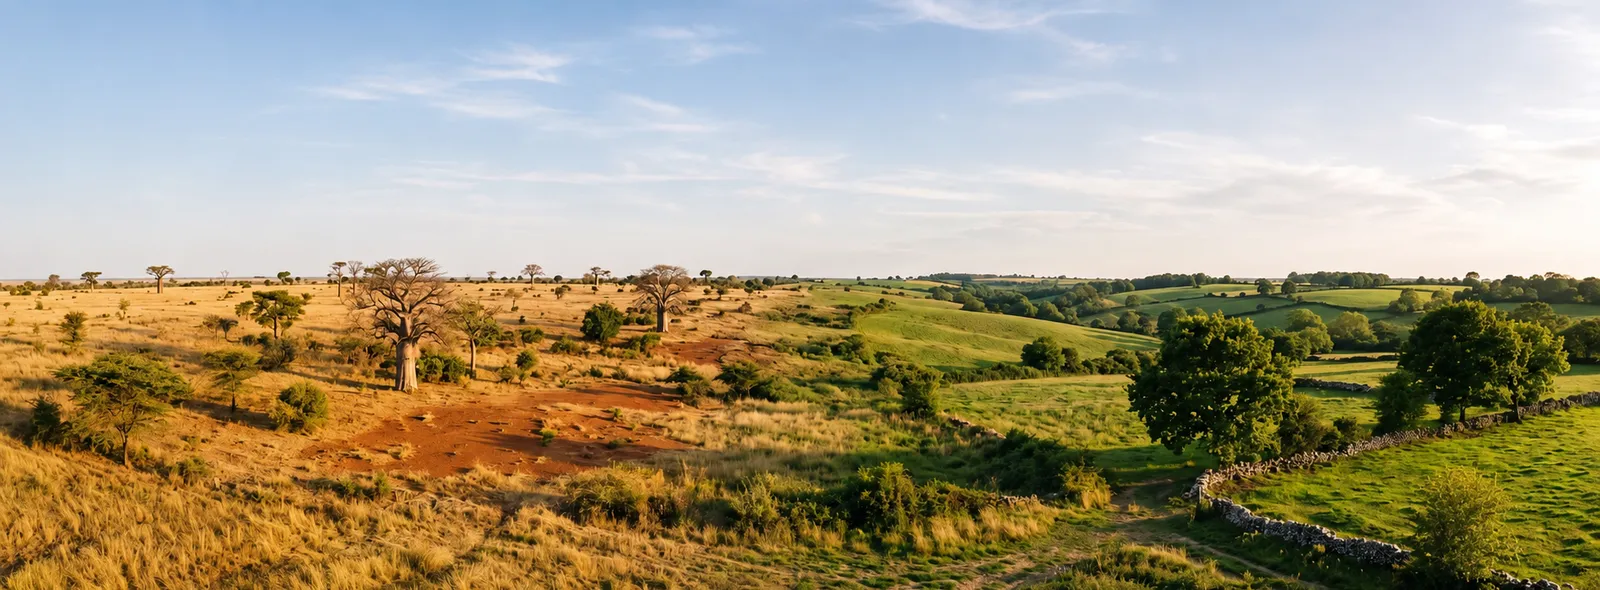
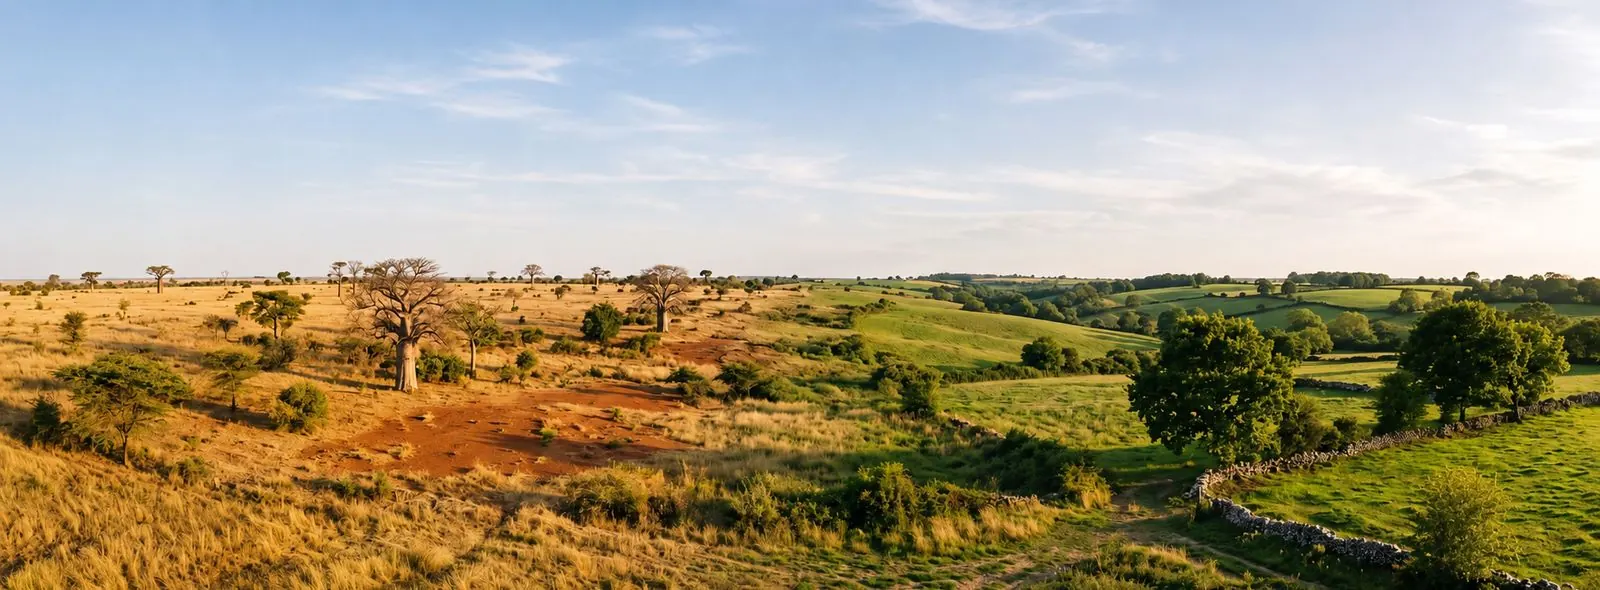
perf: cache CDN Vercel, photos en WebP, code serveur non public
- Cache : pages et fichiers statiques sont gardés par le CDN Vercel jusqu'au
  prochain déploiement (s-maxage, purge automatique au déploiement) ; le
  navigateur revalide les pages à chaque visite, le CSS/JS toutes les heures,
  les images chaque semaine. Les visites ne déclenchent presque plus la
  fonction serveur (coût Vercel divisé par ~10). Inactif en développement.
- Photos affichées en WebP (800 px) : -45 % à -80 % de poids
  (ex. hibiscus blanc 130 → 38 Ko, recettes 47-96 → 10-31 Ko). Les JPG
  restent pour les aperçus de partage (og:image, données structurées).
- Sécurité : express.static ne sert plus toute la racine du projet mais
  seulement /public et /components ; /server/server.js était téléchargeable.

diff --git a/server/server.js b/server/server.js
@@ -189,6 +189,28 @@ app.use('/create-checkout-session', apiLimiter);
 // --- FICHIERS STATIQUES (frontend) ---
 const frontendPath = path.join(__dirname, '..');
 
+// Cache : le CDN Vercel garde pages et fichiers jusqu'au prochain déploiement (qui purge
+// son cache), sans rappeler la fonction à chaque visite. Le navigateur, lui, revérifie
+// régulièrement car les noms de fichiers ne sont pas versionnés. Désactivé en développement.
+const IS_PROD = process.env.NODE_ENV === 'production';
+const CDN_ONE_YEAR = 's-maxage=31536000, stale-while-revalidate=86400';
+const CACHE = {
+  page:  `public, max-age=0, ${CDN_ONE_YEAR}`,
+  asset: `public, max-age=3600, ${CDN_ONE_YEAR}`,
+  image: `public, max-age=604800, ${CDN_ONE_YEAR}`,
+};
+const cacheFor = (filePath) =>
+  /\.html$/i.test(filePath) ? CACHE.page
+  : /\.(jpe?g|png|webp|avif|svg|ico)$/i.test(filePath) ? CACHE.image
+  : CACHE.asset;
+const sendCached = (res, filePath) => {
+  if (IS_PROD) res.setHeader('Cache-Control', cacheFor(filePath));
+  res.sendFile(filePath);
+};
+const staticOptions = IS_PROD
+  ? { cacheControl: false, setHeaders: (res, filePath) => res.setHeader('Cache-Control', cacheFor(filePath)) }
+  : {};
+
 // --- ROUTES HTML (URLs propres → /pages/) ---
 // Déclarées AVANT express.static pour prendre priorité sur les originaux à la racine
 [
@@ -209,7 +231,7 @@ const frontendPath = path.join(__dirname, '..');
   'contact',
 ].forEach(p => {
   app.get(`/${p}.html`, (req, res) => {
-    res.sendFile(path.join(frontendPath, 'pages', `${p}.html`));
+    sendCached(res, path.join(frontendPath, 'pages', `${p}.html`));
   });
 });
 
@@ -227,20 +249,21 @@ app.get('/pages/produits.html', (req, res) => {
   res.redirect(301, '/khamare.html');
 });
 app.get('/déconnexion.html', (req, res) => {
-  res.sendFile(path.join(frontendPath, 'pages', 'déconnexion.html'));
+  sendCached(res, path.join(frontendPath, 'pages', 'déconnexion.html'));
 });
 
 // SEO technical files served from root URLs
-app.get('/robots.txt', (req, res) => res.sendFile(path.join(frontendPath, 'public', 'robots.txt')));
-app.get('/sitemap.xml', (req, res) => res.sendFile(path.join(frontendPath, 'public', 'sitemap.xml')));
-app.get('/manifest.json', (req, res) => res.sendFile(path.join(frontendPath, 'public', 'manifest.json')));
-app.get('/favicon.png', (req, res) => res.sendFile(path.join(frontendPath, 'public', 'favicon.png')));
-app.get('/favicon.ico', (req, res) => res.sendFile(path.join(frontendPath, 'public', 'favicon.png')));
+app.get('/robots.txt', (req, res) => sendCached(res, path.join(frontendPath, 'public', 'robots.txt')));
+app.get('/sitemap.xml', (req, res) => sendCached(res, path.join(frontendPath, 'public', 'sitemap.xml')));
+app.get('/manifest.json', (req, res) => sendCached(res, path.join(frontendPath, 'public', 'manifest.json')));
+app.get('/favicon.png', (req, res) => sendCached(res, path.join(frontendPath, 'public', 'favicon.png')));
+app.get('/favicon.ico', (req, res) => sendCached(res, path.join(frontendPath, 'public', 'favicon.png')));
 
 // Dynamic config.js — injects real env vars (overrides static file)
+// Les variables ne changent qu'avec un redéploiement, qui purge le cache CDN.
 app.get('/public/js/config.js', (req, res) => {
   res.setHeader('Content-Type', 'application/javascript');
-  res.setHeader('Cache-Control', 'no-store');
+  res.setHeader('Cache-Control', IS_PROD ? CACHE.page : 'no-store');
   res.send(`window.__ENV__ = ${JSON.stringify({
     SUPABASE_URL: process.env.SUPABASE_URL || '',
     SUPABASE_ANON_KEY: process.env.SUPABASE_ANON_KEY || '',
@@ -248,10 +271,12 @@ app.get('/public/js/config.js', (req, res) => {
   })};`);
 });
 
-app.use(express.static(frontendPath));
+// Seuls les dossiers utilisés par le site sont publics (le code serveur ne doit pas l'être)
+app.use('/public', express.static(path.join(frontendPath, 'public'), staticOptions));
+app.use('/components', express.static(path.join(frontendPath, 'components'), staticOptions));
 // Route racine → pages/index.html
 app.get('/', (req, res) => {
-  res.sendFile(path.join(frontendPath, 'pages', 'index.html'));
+  sendCached(res, path.join(frontendPath, 'pages', 'index.html'));
 });
 
 // --- LOGIQUE MÉTIER ---

diff --git a/pages/conseil.html b/pages/conseil.html
@@ -227,7 +227,7 @@
         <!-- Khamaré -->
         <article class="bg-white dark:bg-background-dark/40 rounded-xl shadow-md overflow-hidden md:flex">
           <img
-            src="/public/images/khamare.jpg"
+            src="/public/images/khamare.webp"
             alt="Bottes de racines de khamaré (vétiver) séchées et liées"
             class="w-full md:w-2/5 h-56 md:h-auto object-cover"
             loading="lazy" width="800" height="800" />
@@ -254,7 +254,7 @@
         <!-- Hibiscus -->
         <article class="bg-white dark:bg-background-dark/40 rounded-xl shadow-md overflow-hidden md:flex md:flex-row-reverse">
           <img
-            src="/public/images/hibiscus-rouge.jpg"
+            src="/public/images/hibiscus-rouge.webp"
             alt="Fleurs d'hibiscus rouge séchées, utilisées pour le bissap"
             class="w-full md:w-2/5 h-56 md:h-auto object-cover"
             loading="lazy" width="800" height="800" />
@@ -294,7 +294,7 @@
 
           <!-- Bissap glacé -->
           <article class="bg-white dark:bg-background-dark/40 rounded-xl shadow-md overflow-hidden flex flex-col">
-            <img src="/public/images/recette-bissap-glace.jpg" alt="Verre et carafe de bissap glacé avec des glaçons et de la menthe"
+            <img src="/public/images/recette-bissap-glace.webp" alt="Verre et carafe de bissap glacé avec des glaçons et de la menthe"
                  class="w-full h-48 object-cover" loading="lazy" width="800" height="800" />
             <div class="p-6 space-y-3 flex flex-col flex-1">
               <div>
@@ -321,7 +321,7 @@
 
           <!-- Bissap gingembre -->
           <article class="bg-white dark:bg-background-dark/40 rounded-xl shadow-md overflow-hidden flex flex-col">
-            <img src="/public/images/recette-bissap-gingembre.jpg" alt="Verre de bissap au gingembre, racine de gingembre tranchée et fleurs d'hibiscus séchées"
+            <img src="/public/images/recette-bissap-gingembre.webp" alt="Verre de bissap au gingembre, racine de gingembre tranchée et fleurs d'hibiscus séchées"
                  class="w-full h-48 object-cover" loading="lazy" width="800" height="800" />
             <div class="p-6 space-y-3 flex flex-col flex-1">
               <div>
@@ -347,7 +347,7 @@
 
           <!-- Granité -->
           <article class="bg-white dark:bg-background-dark/40 rounded-xl shadow-md overflow-hidden flex flex-col">
-            <img src="/public/images/recette-granite-bissap.jpg" alt="Verre de granité de bissap rose vif avec une petite cuillère et une feuille de menthe"
+            <img src="/public/images/recette-granite-bissap.webp" alt="Verre de granité de bissap rose vif avec une petite cuillère et une feuille de menthe"
                  class="w-full h-48 object-cover" loading="lazy" width="800" height="800" />
             <div class="p-6 space-y-3 flex flex-col flex-1">
               <div>
@@ -374,7 +374,7 @@
 
           <!-- Eau de khamaré -->
           <article class="bg-white dark:bg-background-dark/40 rounded-xl shadow-md overflow-hidden flex flex-col">
-            <img src="/public/images/khamare.jpg" alt="Racines de khamaré séchées, prêtes à infuser dans l'eau froide"
+            <img src="/public/images/khamare.webp" alt="Racines de khamaré séchées, prêtes à infuser dans l'eau froide"
                  class="w-full h-48 object-cover" loading="lazy" width="800" height="800" />
             <div class="p-6 space-y-3 flex flex-col flex-1">
               <div>
@@ -400,7 +400,7 @@
 
           <!-- Infusion hibiscus blanc -->
           <article class="bg-white dark:bg-background-dark/40 rounded-xl shadow-md overflow-hidden flex flex-col md:col-span-2 md:flex-row">
-            <img src="/public/images/hibiscus-blanc.jpg" alt="Fleurs d'hibiscus blanc séchées pour une infusion chaude"
+            <img src="/public/images/hibiscus-blanc.webp" alt="Fleurs d'hibiscus blanc séchées pour une infusion chaude"
                  class="w-full md:w-1/3 h-48 md:h-auto object-cover" loading="lazy" width="800" height="800" />
             <div class="p-6 space-y-3 flex flex-col flex-1">
               <div>

diff --git a/pages/boutique.html b/pages/boutique.html
@@ -56,7 +56,7 @@
             <a href="/khamare.html"
                 class="product-card group bg-white dark:bg-gray-800 rounded-2xl shadow-sm hover:shadow-xl transition duration-300 overflow-hidden border border-gray-100 dark:border-gray-700 flex flex-col">
                 <div class="aspect-square bg-gray-100 overflow-hidden">
-                    <img src="/public/images/khamare.jpg"
+                    <img src="/public/images/khamare.webp"
                         alt="Khamaré – Racine de Vétiver"
                         class="w-full h-full object-cover group-hover:scale-105 transition duration-500">
                 </div>
@@ -73,7 +73,7 @@
             <a href="/hibiscus-blanc.html"
                 class="product-card group bg-white dark:bg-gray-800 rounded-2xl shadow-sm hover:shadow-xl transition duration-300 overflow-hidden border border-gray-100 dark:border-gray-700 flex flex-col">
                 <div class="aspect-square bg-gray-100 overflow-hidden">
-                    <img src="/public/images/hibiscus-blanc.jpg"
+                    <img src="/public/images/hibiscus-blanc.webp"
                         alt="Fleurs d'Hibiscus Blanc"
                         class="w-full h-full object-cover group-hover:scale-105 transition duration-500">
                 </div>
@@ -90,7 +90,7 @@
             <a href="/hibiscus-rouge.html"
                 class="product-card group bg-white dark:bg-gray-800 rounded-2xl shadow-sm hover:shadow-xl transition duration-300 overflow-hidden border border-gray-100 dark:border-gray-700 flex flex-col">
                 <div class="aspect-square bg-gray-100 overflow-hidden">
-                    <img src="/public/images/hibiscus-rouge.jpg"
+                    <img src="/public/images/hibiscus-rouge.webp"
                         alt="Hibiscus Rouge"
                         class="w-full h-full object-cover group-hover:scale-105 transition duration-500">
                 </div>

diff --git a/pages/assistantIA.html b/pages/assistantIA.html
@@ -72,7 +72,7 @@
       <div
         class="product-card bg-white dark:bg-gray-800 rounded-2xl shadow-sm overflow-hidden border border-gray-100 dark:border-gray-700 flex flex-col sm:flex-row">
         <div class="sm:w-1/3 aspect-square bg-gray-100 overflow-hidden">
-          <img src="/public/images/hibiscus-blanc.jpg" alt="Fleurs d'Hibiscus Blanc"
+          <img src="/public/images/hibiscus-blanc.webp" alt="Fleurs d'Hibiscus Blanc"
             class="w-full h-full object-cover">
         </div>
         <div class="p-6 flex flex-col flex-grow text-center sm:text-left">
@@ -94,7 +94,7 @@
       <div
         class="product-card bg-white dark:bg-gray-800 rounded-2xl shadow-sm overflow-hidden border border-gray-100 dark:border-gray-700 flex flex-col sm:flex-row">
         <div class="sm:w-1/3 aspect-square bg-gray-100 overflow-hidden">
-          <img src="/public/images/hibiscus-rouge.jpg" alt="Fleurs d'Hibiscus Rouge"
+          <img src="/public/images/hibiscus-rouge.webp" alt="Fleurs d'Hibiscus Rouge"
             class="w-full h-full object-cover">
         </div>
         <div class="p-6 flex flex-col flex-grow text-center sm:text-left">
@@ -116,7 +116,7 @@
       <div
         class="product-card bg-white dark:bg-gray-800 rounded-2xl shadow-sm overflow-hidden border border-gray-100 dark:border-gray-700 flex flex-col sm:flex-row">
         <div class="sm:w-1/3 aspect-square bg-gray-100 overflow-hidden">
-          <img src="/public/images/khamare.jpg" alt="Khamaré (racine de vétiver)" class="w-full h-full object-cover">
+          <img src="/public/images/khamare.webp" alt="Khamaré (racine de vétiver)" class="w-full h-full object-cover">
         </div>
         <div class="p-6 flex flex-col flex-grow text-center sm:text-left">
           <h3 class="text-xl font-bold mb-1">Khamaré (racine de vétiver)</h3>

diff --git a/pages/hibiscus-rouge.html b/pages/hibiscus-rouge.html
@@ -81,7 +81,7 @@
     <!-- IMAGE PRODUIT -->
     <section class="flex justify-center mb-6">
       <img id="productImage"
-        src="/public/images/hibiscus-rouge.jpg"
+        src="/public/images/hibiscus-rouge.webp"
         alt="Fleurs d'hibiscus rouge sur la plante"
         class="rounded-xl w-full max-w-lg object-cover shadow-md"
         loading="eager"
@@ -169,7 +169,7 @@
         data-product-id="hibiscus-rouge"
         data-name="Fleurs d'Hibiscus Rouge"
         data-price="6.00"
-        data-image="/public/images/hibiscus-rouge.jpg"
+        data-image="/public/images/hibiscus-rouge.webp"
         class="flex items-center justify-center w-full h-14 rounded-full bg-primary text-white text-lg font-bold shadow-lg hover:bg-primary/90 transition"
         data-testid="add-to-cart">
         Ajouter au panier
@@ -184,7 +184,7 @@
     import { supabaseFetch } from "/public/js/supabase-public.js";
 
     const SLUG = 'hibiscus-rouge';
-    const FALLBACK_IMAGE = '/public/images/hibiscus-rouge.jpg';
+    const FALLBACK_IMAGE = '/public/images/hibiscus-rouge.webp';
     const RR_ACTIVITY_ID = '23823b14-7ed5-4ce2-a35d-87d1715ac95a';
 
     const btn = document.getElementById("addToCartBtn");

diff --git a/pages/hibiscus-blanc.html b/pages/hibiscus-blanc.html
@@ -81,7 +81,7 @@
     <!-- IMAGE PRODUIT -->
     <section class="flex justify-center mb-6">
       <img id="productImage"
-        src="/public/images/hibiscus-blanc.jpg"
+        src="/public/images/hibiscus-blanc.webp"
         alt="Fleur d'hibiscus blanc sur la plante"
         class="rounded-xl w-full max-w-lg object-cover shadow-md"
         loading="eager"
@@ -166,7 +166,7 @@
         data-product-id="hibiscus-blanc"
         data-name="Fleurs d'Hibiscus Blanc"
         data-price="6.00"
-        data-image="/public/images/hibiscus-blanc.jpg"
+        data-image="/public/images/hibiscus-blanc.webp"
         class="flex items-center justify-center w-full h-14 rounded-full bg-primary text-white text-lg font-bold shadow-lg hover:bg-primary/90 transition"
         data-testid="add-to-cart">
         Ajouter au panier
@@ -181,7 +181,7 @@
     import { supabaseFetch } from "/public/js/supabase-public.js";
 
     const SLUG = 'hibiscus-blanc';
-    const FALLBACK_IMAGE = '/public/images/hibiscus-blanc.jpg';
+    const FALLBACK_IMAGE = '/public/images/hibiscus-blanc.webp';
     const RR_ACTIVITY_ID = '23823b14-7ed5-4ce2-a35d-87d1715ac95a';
 
     const btn = document.getElementById("addToCartBtn");

diff --git a/pages/khamare.html b/pages/khamare.html
@@ -79,7 +79,7 @@
     <!-- IMAGE PRODUIT -->
     <section class="flex justify-center mb-6">
       <img id="productImage"
-        src="/public/images/khamare.jpg"
+        src="/public/images/khamare.webp"
         alt="Khamaré, racine de vétiver séchée en sachet"
         class="rounded-xl w-full max-w-lg object-cover shadow-md"
         loading="eager"
@@ -164,7 +164,7 @@
         data-product-id="khamare"
         data-name="Khamaré (Racine de Vétiver)"
         data-price="12.00"
-        data-image="/public/images/khamare.jpg"
+        data-image="/public/images/khamare.webp"
         class="flex items-center justify-center w-full h-14 rounded-full bg-primary text-white text-lg font-bold shadow-lg hover:bg-primary/90 transition"
         data-testid="add-to-cart"
         aria-label="Ajouter Khamaré au panier">
@@ -180,7 +180,7 @@
     import { supabaseFetch } from "/public/js/supabase-public.js";
 
     const SLUG = 'khamare';
-    const FALLBACK_IMAGE = '/public/images/khamare.jpg';
+    const FALLBACK_IMAGE = '/public/images/khamare.webp';
     const RR_ACTIVITY_ID = '23823b14-7ed5-4ce2-a35d-87d1715ac95a';
 
     const btn = document.getElementById("addToCartBtn");

diff --git a/pages/index.html b/pages/index.html
@@ -55,7 +55,7 @@
 
   <div class="absolute inset-0">
     <img
-      src="/public/images/hibiscus-rouge.jpg"
+      src="/public/images/hibiscus-rouge.webp"
       alt="Fleurs d'hibiscus rouge sur la plante"
       class="w-full h-full object-cover"
     />
